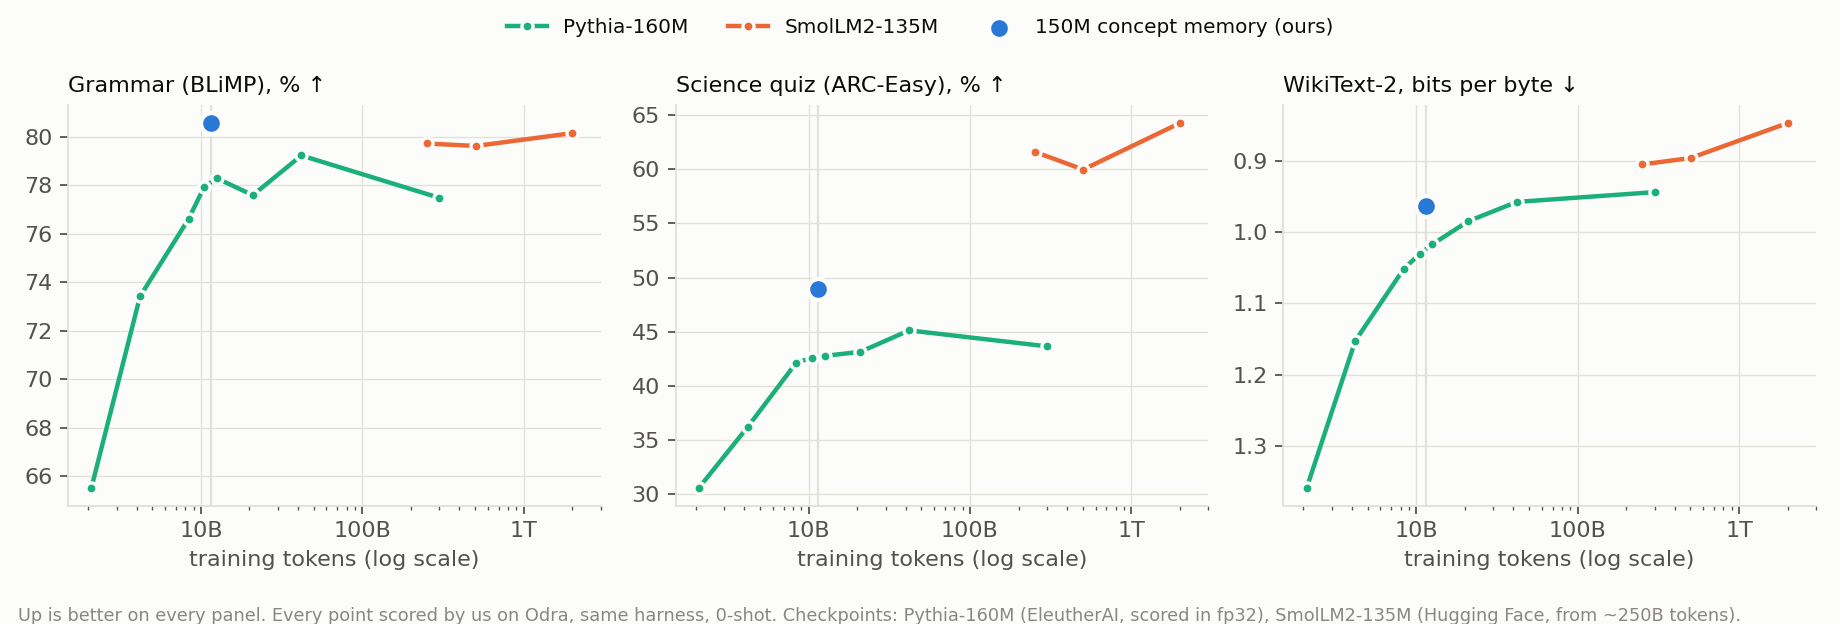
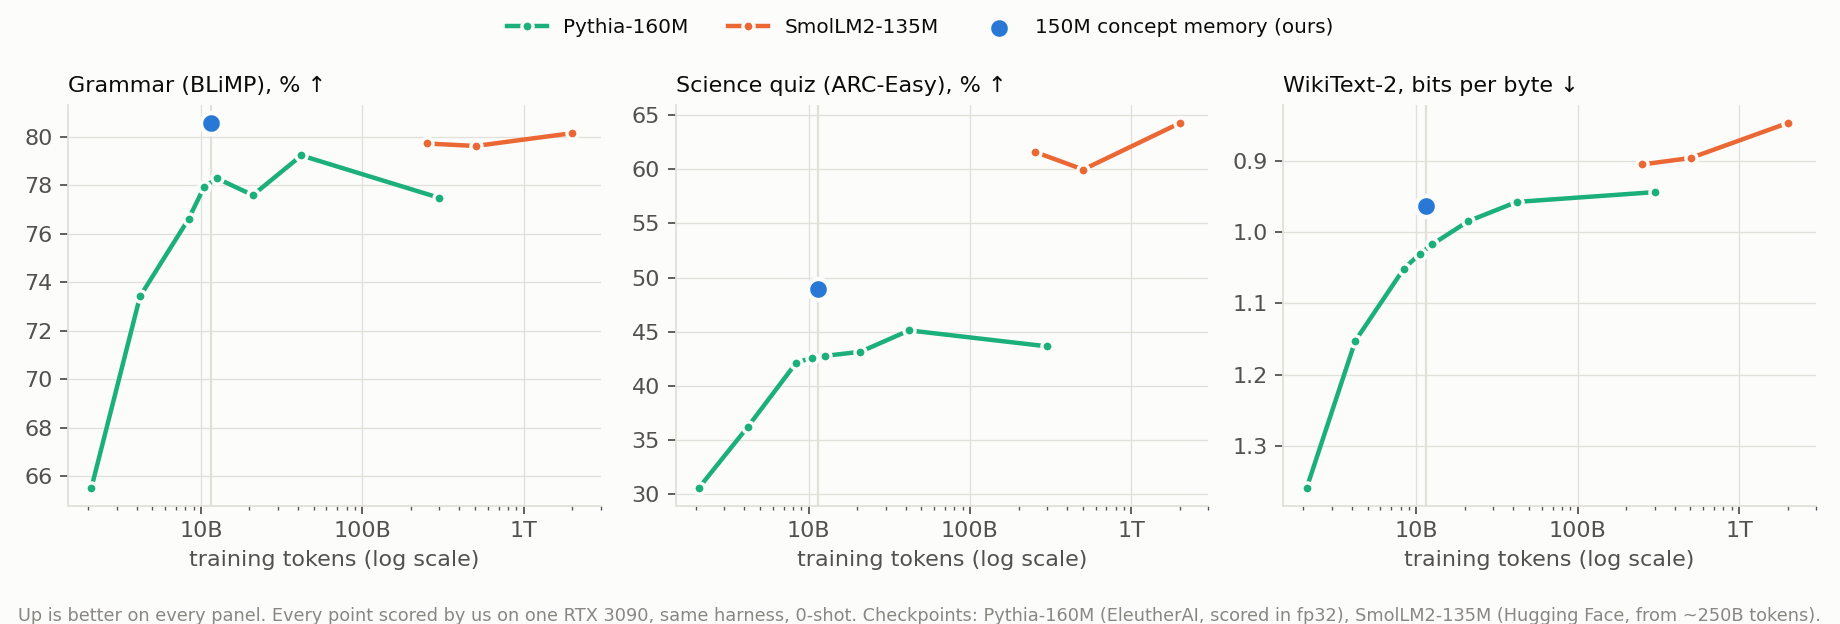
HF card published to Meridian21Lab; no server names in public files; ≈ instead of ~
- Published Meridian21Lab/concept-memory-140m-11.5bt (public, Apache-2.0) on 2026-11-18:
  private upload 14:14–14:15 UTC (64 files, weights checksum matched the training checkpoint),
  loaded back from the Hub on CPU (141.5M parameters, 1.99 nats/token on a plain sentence),
  public at 14:16 UTC; Hub commits e1ba4e91 (weights + card) and 7f939bf7 (tilde fix).
  config.json on the Hub: tokenizer_name = HuggingFaceTB/SmolLM2-135M, use_liger = false.
- Card, evaluation page, figure caption, samples file and the uploaded scripts' usage text no
  longer name our servers or internal paths; hardware is named generically (RTX 3090,
  4 × NVIDIA L40S on AWS spot). The evaluation page no longer claims the new RULER runner and
  sampling script are on the dev branch: it points to their copies in the Hub repo.
- Hub markdown turned paired "~" into strikethrough: written as ≈ now.
- model-release skill: rule and checklist items for generic hardware names, the tilde trap,
  and scrolling the rendered page after upload.

Changed region(s): [[0.2788, 0.9744, 0.9913, 1.0]]

diff --git a/evaluation/long_context_compare.py b/evaluation/long_context_compare.py
@@ -14,13 +14,11 @@ compares models with different tokenizers and context limits on exactly the same
            512 / 1,024 / 4,096 tokens for limits of 2k / 8k / longer), so every model gets as much of the document as
            it can take; larger budgets then give the same score and are copied, marked "windowed".
 
-Usage (Odra; script read from stdin, so nothing is written to the checkout; spans go to the cache):
-  ssh odra 'cd ~/dev/MrCogito-eng && .venv/bin/python - prepare --tokenizer Cache/e38_board/e37a_m120t_final \
-      --data ../MrCogito-lsa/Cache/e33n_data/longdocs_lite_gpt2 --out Cache/e38_board/longctx/spans_64k.json.gz' \
-      < evaluation/long_context_compare.py
-  ssh odra 'cd ~/dev/MrCogito-eng && CUDA_VISIBLE_DEVICES=0 .venv/bin/python - score \
-      --spans Cache/e38_board/longctx/spans_64k.json.gz --model HuggingFaceTB/SmolLM2-135M' \
-      < evaluation/long_context_compare.py > smollm2.json
+Usage (from a MrCogito checkout, one GPU per process):
+  uv run python evaluation/long_context_compare.py prepare --tokenizer <our checkpoint folder> \
+      --data <LongDocs-lite shards> --out spans_64k.json.gz
+  CUDA_VISIBLE_DEVICES=0 uv run python evaluation/long_context_compare.py score \
+      --spans spans_64k.json.gz --model HuggingFaceTB/SmolLM2-135M > smollm2.json
 """
 from __future__ import annotations
 

diff --git a/evaluation/long_context_use.py b/evaluation/long_context_use.py
@@ -21,10 +21,9 @@ document-masked). Positions: the reading layer has no position code (global_nope
 window is 128 tokens, so moving the target from position 61k to position 4k does not change what the model sees
 apart from the context itself.
 
-Usage (one card per process; the script is read from stdin, nothing is written to the checkout):
-  ssh odra 'cd ~/dev/MrCogito-eng && uv run python - --checkpoint Cache/e38_board/e37a_m120t_final \
-      --data ../MrCogito-lsa/Cache/e33n_data/longdocs_lite_gpt2 --sources gutenberg,arxiv --span 65536' \
-      < evaluation/long_context_use.py > out.json
+Usage (from a MrCogito checkout, one GPU per process):
+  uv run python evaluation/long_context_use.py --checkpoint <our checkpoint folder> \
+      --data <LongDocs-lite shards> --sources gutenberg,arxiv --span 65536 > out.json
 """
 from __future__ import annotations
 

diff --git a/docs/release/hf_card_concept_memory_150m/figures/make_figures.py b/docs/release/hf_card_concept_memory_150m/figures/make_figures.py
@@ -226,7 +226,7 @@ def data_efficiency() -> None:
             ax.invert_yaxis()  # up is better on every panel
     h, l = axs[1].get_legend_handles_labels()
     fig.legend(h, l, loc="upper center", ncol=3, frameon=False, fontsize=9, bbox_to_anchor=(0.5, 1.0))
-    fig.text(0.01, 0.005, "Up is better on every panel. Every point scored by us on Odra, same harness, 0-shot. "
+    fig.text(0.01, 0.005, "Up is better on every panel. Every point scored by us on one RTX 3090, same harness, 0-shot. "
              "Checkpoints: Pythia-160M (EleutherAI, scored in fp32), SmolLM2-135M (Hugging Face, from ~250B tokens).", fontsize=8,
              color=MUTED)
     fig.tight_layout(rect=(0, 0.04, 1, 0.92))

diff --git a/evaluation/sample_text.py b/evaluation/sample_text.py
@@ -12,7 +12,7 @@ Works for our perceiver_ar checkpoints (loaded with `load_perceiver_ar_for_eval`
 short, and flex attention would recompile for every new length) and for any 🤗 causal LM (`--hf`). Every step re-runs
 the whole row (no cache): fine for prompts and replies of a few hundred tokens.
 
-    uv run python evaluation/sample_text.py --model Cache/e38_board/e37a_m120t_final --out samples.json
+    uv run python evaluation/sample_text.py --model <our checkpoint folder> --out samples.json
     uv run python evaluation/sample_text.py --model HuggingFaceTB/SmolLM2-135M --hf --out smollm2_samples.json
 """
 from __future__ import annotations

diff --git a/evaluation/run_lsa_suite.py b/evaluation/run_lsa_suite.py
@@ -85,7 +85,7 @@ def _blimp(evaluate, cap, out, save) -> None:
 
 
 # lm-eval's RULER HotpotQA task downloads the dev set (distractor) from this host, which no longer resolves
-# (2026-11-05, from Odra and Polonez). The same 7,405 questions are on the Hub as parquet.
+# (2026-11-05, from two networks). The same 7,405 questions are on the Hub as parquet.
 HOTPOT_URL = "http://curtis.ml.cmu.edu/datasets/hotpot/hotpot_dev_distractor_v1.json"
 
 

diff --git a/docs/release/hf_card_concept_memory_150m/README.md b/docs/release/hf_card_concept_memory_150m/README.md
@@ -71,12 +71,12 @@ seed, not instruction-tuned.
   tokens (0.051 bits per byte from 1k to 61k): as much as Gemma 3 270M gains up to its 32k limit, and then further.
   Replace the far past with another document and the gain disappears, on 55 of 55 documents.
 - **Strong for its training budget.** Grammar (BLiMP) 80.56 %: higher than SmolLM2-135M after 252B tokens (79.72 %)
-  and than LFM2.5-350M-Base (80.17 %; 2.5× our size, 28T tokens), level with SmolLM2's final ~2T-token model
+  and than LFM2.5-350M-Base (80.17 %; 2.5× our size, 28T tokens), level with SmolLM2's final ≈2T-token model
   (80.15 %). Against Pythia-160M at our budget (10.5–12.6B tokens) it is ahead on every test; Pythia does not reach
   our grammar or science-quiz score at any checkpoint up to 300B tokens.
 - **Finds a planted fact far back.** RULER's needle in real essays: 1.00 up to 16k tokens and 0.98 at
   32k (after training on similar lookups).
-- **Cheap and open.** ~40 hours on one 4-GPU node (~$320). A whole 64k document is scored in one pass on a single
+- **Cheap and open.** ≈40 hours on one 4-GPU node (≈ $320). A whole 64k document is scored in one pass on a single
   24 GB RTX 3090. Every training source is a public Hugging Face dataset, every training stage is on public W&B,
   and every number on this card comes with its raw result file in this repository.
 
@@ -100,7 +100,7 @@ higher is better; best in each row in **bold**.
 | Hard science quiz (ARC-Challenge) | 25 | 21.2 | 27.1 | 19.5 (18.8) | **38.2** |
 | Sensible continuation (HellaSwag) | 25 | 29.9 | 32.6 | 28.4 | **37.1** |
 | Science with a passage (SciQ) | 25 | 77.0 | 80.4 | 75.4 (74.1) | **90.1** |
-| Last word of a passage (LAMBADA) | ~0 | 33.2 | 35.0 | 35.4 (32.8) | **35.8** |
+| Last word of a passage (LAMBADA) | ≈0 | 33.2 | 35.0 | 35.4 (32.8) | **35.8** |
 | Physical common sense (PIQA) | 50 | 62.8 | 65.9 | 62.3 (62.7) | **66.6** |
 | Pronoun resolution (WinoGrande) | 50 | 50.4 | 50.9 | 51.2 (53.1) | **55.6** |
 | **Mean of the 7 tasks above** | 28.6 | 46.2 | 50.5 | 45.1 | **56.2** |
@@ -109,10 +109,10 @@ higher is better; best in each row in **bold**.
 | **Gain from far context**, 1k → most, bits per byte ↑ | 0 | **0.051** | 0 (reads 2k) | 0 (reads 2k) | −0.035 (worse with more) |
 | Tiny-ML Leaderboard place (of 101) ⁴ | | 24th | 9th | 44th (over the 150M cap) | 12th (over the 150M cap) |
 
-¹ SmolLM2-135M's **earliest public training checkpoint** (step 240,000, ~252B tokens, 22× ours), the closest to
-our budget a reader can check; its final ~2T-token model is in the leaderboard table below. These early checkpoints
+¹ SmolLM2-135M's **earliest public training checkpoint** (step 240,000, ≈252B tokens, 22× ours), the closest to
+our budget a reader can check; its final ≈2T-token model is in the leaderboard table below. These early checkpoints
 read 2,048 tokens; SmolLM2's 8k context came in its last training phase.
-² Pythia-160M's final checkpoint, scored by us in fp32 (it loses ~6 ARC-Easy points in bf16). In brackets:
+² Pythia-160M's final checkpoint, scored by us in fp32 (it loses ≈6 ARC-Easy points in bf16). In brackets:
 EleutherAI's own published zero-shot results (`evals/pythia-v1/pythia-160m` in their GitHub repository, quoted).
 ³ LFM2.5-350M-Base (Liquid AI, March 2026), 2.5× our size; training tokens as its card reports (quoted). Its card
 states a 32k context; on these documents it predicts best with 4k and worse with more (checked in fp32 and bf16,
@@ -132,20 +132,20 @@ difference of 0.01 is about 1.2 %.
 
 <p align="center"><img src="figures/long_docs.png" width="860" alt="Bits per byte on the last pages of 55 held-out 64k-token documents against the context each model is given. Ours improves steadily up to 61k tokens; same-size models stop at 2k and 8k; Gemma 3 270M is level with ours up to its 32k limit; Granite 4.0 350M is ahead; LFM2.5-350M-Base gets worse past 4k."></p>
 
-Every model reads the same characters: the last ~16 KB of each 64k-token span is the target, and the context
+Every model reads the same characters: the last ≈16 KB of each 64k-token span is the target, and the context
 before it is cut to the budget on the x-axis (sliding windows past a model's maximum length). Held-out documents from
 five public sources (Gutenberg books, arXiv papers, open-access academic books, US government publications, UK
 parliamentary debates); ours trained on other documents of these sources, the others may have seen these very
-documents. Odra (RTX 3090), 2026-11-18.
+documents. One RTX 3090, 2026-11-18.
 
 | Model | Size | Training tokens | Reads at most | Bits per byte ↓ | Gain, 1k → most ↑ | Another document's far past ↓ |
 |---|---:|---:|---:|---:|---:|---:|
 | **150M concept memory** | 141.5M | 11.5B | 64k | **0.795** | **0.051** [0.037, 0.067] | 0.832 |
 | SmolLM2-135M, 252B checkpoint | 134.5M | 252B | 2k | 0.933 | — | 0.932 |
-| SmolLM2-135M, final | 134.5M | ~2T | 8k | 0.832 | 0.018 [0.014, 0.024] | 0.836 |
+| SmolLM2-135M, final | 134.5M | ≈2T | 8k | 0.832 | 0.018 [0.014, 0.024] | 0.836 |
 | Pythia-160M | 162.3M | 300B | 2k | 0.942 | — | 0.941 |
 | Gemma 3 270M | 268.1M | 6T | 32k | 0.805 | 0.038 [0.029, 0.049] | 0.827 |
-| Granite 4.0 350M base | 352.4M | ~15T | 32k | 0.776 | 0.041 [0.033, 0.051] | 0.798 |
+| Granite 4.0 350M base | 352.4M | ≈15T | 32k | 0.776 | 0.041 [0.033, 0.051] | 0.798 |
 | LFM2.5-350M-Base | 354.5M | 28T | 32k | 0.879 at 4k; 0.928 at 28k | −0.035 [−0.051, −0.020] | 0.933 |
 
 Training tokens as each card reports them (quoted); 95 % bootstrap intervals over documents. "Another document's
@@ -161,7 +161,7 @@ far past": the own last 4k tokens kept, everything older taken from a different 
 Our own tests of the memory (context cut in our tokens, the memory or only its summaries switched off, 16k and 128k
 documents) are in [EVALUATION.md](EVALUATION.md#our-own-long-context-tests). In short: switching the far read off
 costs 0.29 nats per token at 64k; past 64k, the training length, extra context no longer helps, so feed the last
-~64k tokens.
+≈64k tokens.
 
 ## Tiny-ML Leaderboard
 
@@ -175,13 +175,13 @@ board's own runs (quoted, snapshot 2026-11-14); rows in *italics* are our runs, 
 | 2 | Tiny Chick 10M V2.1 | 9.6M | 16.3B | 76.79 | 53.79 | 2.342 | 75.5 | 85.2 |
 | 3 | Tiny Chick 10M V2 | 9.6M | 16.3B | 76.99 | 50.21 | 2.364 | 74.3 | 83.8 |
 | 4 | Slayer139 1.02 | 139.3M | 24.0B | 79.22 | 65.91 | 1.862 | 81.7 | 83.4 |
-| *(4)* | *SmolLM2-135M, final* | *134.5M* | *~2T* | *80.15* | *64.27* | *1.799* | *81.5* | *83.2* |
+| *(4)* | *SmolLM2-135M, final* | *134.5M* | *≈2T* | *80.15* | *64.27* | *1.799* | *81.5* | *83.2* |
 | 5 | Boris-2-Think | 143.7M | 200B | 82.09 | 63.93 | 1.967 | 81.7 | 83.2 |
 | 6 | Slayer149-ARC | 149.3M | 31B | 78.38 | 66.58 | 1.907 | 81.5 | 82.9 |
 | 7 | Tiny Chick 10M | 9.6M | 8.3B | 75.12 | 48.53 | 2.287 | 73.3 | 82.7 |
 | 8 | Slayer139 1.01 | 139.3M | 23.7B | 79.13 | 63.09 | 1.878 | 80.7 | 82.3 |
 | *(9)* | *SmolLM2-135M, 252B checkpoint* | *134.5M* | *252B* | *79.72* | *61.62* | *1.873* | *80.4* | *82.1* |
-| 9 | Glint-2 | 1.1M | ~300B | 74.54 | 36.20 | 3.127 | 67.2 | 81.7 |
+| 9 | Glint-2 | 1.1M | ≈300B | 74.54 | 36.20 | 3.127 | 67.2 | 81.7 |
 | 10 | Boris-2 | 143.7M | 200B | 81.13 | 59.76 | 1.895 | 80.2 | 81.7 |
 | … | | | | | | | | |
 | 23 | GPT-S-5M | 5.2M | 25B | 72.27 | 35.69 | 2.570 | 67.4 | 77.7 |
@@ -207,8 +207,8 @@ with the same harness.
   points of grammar, +6.2 to +6.4 on the science quiz, +3 to +4 on the 7-task mean, and 0.07–0.09 lower WikiText
   byte perplexity.
 - **Tokens to match:** Pythia-160M does not reach our grammar or science-quiz score at any checkpoint up to 300B
-  tokens (26× ours); it reaches our WikiText score after ~36B tokens (3.1×). SmolLM2-135M stays below our grammar
-  score at 252B and 503B tokens and passes it at ~2T; it is ahead on the knowledge tests from its first checkpoint.
+  tokens (26× ours); it reaches our WikiText score after ≈36B tokens (3.1×). SmolLM2-135M stays below our grammar
+  score at 252B and 503B tokens and passes it at ≈2T; it is ahead on the knowledge tests from its first checkpoint.
 - **What it does not separate:** the model as trained (architecture and data together). Part of the gap to Pythia is
   newer, cleaner data; a standard transformer of the same size on our exact data and budget will measure the
   architecture's share (queued).
@@ -216,7 +216,7 @@ with the same harness.
 ## RULER
 
 The standard long-context suite: 13 tasks, 100 prompts per task and length, greedy decoding, each task's own answer
-length; score = share of the expected answers found in the reply (higher is better). Odra, 2026-11-18. The needle
+length; score = share of the expected answers found in the reply (higher is better). One RTX 3090 per run, 2026-11-18. The needle
 tasks are not zero-shot for this model: two training stages included planted-fact lookups of a similar shape.
 
 | RULER | 4k | 8k | 16k | 32k |
@@ -249,7 +249,7 @@ in bold, unedited, cut at a sentence end (…). More seeds and beam-search outpu
 >         return 0
 > ```
 
-Fluent, on-topic English and code-shaped output; the facts are often wrong (Paris has ~2.1 million people; the 1905
+Fluent, on-topic English and code-shaped output; the facts are often wrong (Paris has ≈2.1 million people; the 1905
 paper was special relativity), as expected from a 140M base model at 11.5B tokens.
 
 ## How the concept memory works
@@ -281,8 +281,8 @@ concepts is switched off in this release, which tests the memory only.
 | **Tokenizer** | SmolLM2's (`HuggingFaceTB/SmolLM2-135M`), 49,152 tokens; every document starts with `<|endoftext|>` |
 | **Budget** | 11.5B tokens in three length stages: 8.0B at 4k-token rows → 3.0B at 16k → 0.5B at 64k |
 | **Optimizer** | Muon (peak 0.01) for the weight matrices, AdamW for the rest; bf16; seed 42 |
-| **Machine** | one AWS g6e.12xlarge spot node (4 × NVIDIA L40S, 48 GB), us-east-1 |
-| **Time and cost** | ~40 hours (~160 GPU-hours) including ~1 h of tests; ~$320 at ~$8/h spot, plus $15 for an optimizer test; energy not measured |
+| **Machine** | one AWS spot node with 4 × NVIDIA L40S (48 GB) |
+| **Time and cost** | ≈40 hours (≈160 GPU-hours) including ≈1 h of tests; ≈ $320 at ≈ $8/h spot, plus $15 for an optimizer test; energy not measured |
 | **Finished** | 2026-11-16 23:16 UTC |
 
 **Data (`m21mix_v2`), all public Hugging Face datasets.** Shares are of each stage's tokens.
@@ -304,10 +304,10 @@ HotpotQA, SQuAD, the held-out long documents) are not in the training data. Stag
 - **Base model.** No instruction or preference tuning; about 1 % of training text was chat transcripts rendered as
   plain text (the tokenizer folder carries a ChatML template for that reason). English, plus code.
 - **Knowledge tests** (ARC, SciQ, HellaSwag, LAMBADA) are below SmolLM2-135M, which trained on 22× (at 252B) to
-  ~170× (final) more text, and LFM2.5-350M-Base (2.5× our size, ~2,400× our text); at this size these tests track
+  ≈170× (final) more text, and LFM2.5-350M-Base (2.5× our size, ≈2,400× our text); at this size these tests track
   training tokens closely.
 - **Context:** trained and tested to 64k tokens. Past 64k, extra context no longer improves predictions (at 128k,
-  the whole document is 0.06 nats per token worse than its last 61k on 15 of 15 documents); feed the last ~64k.
+  the whole document is 0.06 nats per token worse than its last 61k on 15 of 15 documents); feed the last ≈64k.
 - **Several facts at once:** tasks that need many values or keys at once score lower than single lookups and fall
   with length (RULER table).
 - **Controls not run yet:** one seed; no full-attention model of the same size on the same data, so the share of

diff --git a/docs/release/hf_card_concept_memory_150m/EVALUATION.md b/docs/release/hf_card_concept_memory_150m/EVALUATION.md
@@ -19,8 +19,8 @@ figures from those files.
 
 ## Harness and settings
 
-- **Machine:** Odra, one NVIDIA RTX 3090 (24 GB) per job; runs between 2026-11-17 19:58 UTC and 2026-11-18
-  13:51 UTC. The AWS tests quoted at the end of section 6 ran on the training node on 2026-11-16.
+- **Machine:** one NVIDIA RTX 3090 (24 GB) per job; runs between 2026-11-17 19:58 UTC and 2026-11-18
+  13:51 UTC. The AWS tests quoted at the end of section 6 ran on the training machine (4 × NVIDIA L40S) on 2026-11-16.
 - **Benchmarks:** EleutherAI lm-evaluation-harness 0.4.11, 0-shot, all test items, max length 2,048, `acc` for
   every task. Our model through our adapter (`evaluation/lm_eval_perceiver_ar.py`, `--model perceiver_ar`), the
   others through lm-eval's stock `hf` model (`evaluation/run_lm_eval_suite.py`).
@@ -44,13 +44,13 @@ Accuracy in %, higher is better, ± standard error from the harness. In brackets
 zero-shot results for Pythia-160M (step 143000, `evals/pythia-v1/pythia-160m` in their GitHub repository, quoted;
 the remaining gaps of 1–2.5 points fit the change of harness version).
 
-| Benchmark | Chance | **Ours** · 11.5B | SmolLM2-135M · 252B | SmolLM2-135M · ~2T (final) | Pythia-160M · 300B | LFM2.5-350M-Base · 28T |
+| Benchmark | Chance | **Ours** · 11.5B | SmolLM2-135M · 252B | SmolLM2-135M · ≈2T (final) | Pythia-160M · 300B | LFM2.5-350M-Base · 28T |
 |---|---:|---:|---:|---:|---:|---:|
 | BLiMP, 67 sets | 50 | **80.56** ± 0.14 | 79.72 ± 0.14 | 80.15 ± 0.14 | 77.48 | 80.17 |
 | ARC-Easy | 25 | 48.95 ± 1.03 | 61.62 ± 1.0 | 64.27 ± 0.98 | 43.64 ± 1.0 (43.52) | **70.03** ± 0.9 |
 | ARC-Challenge | 25 | 21.2 ± 1.2 | 27.1 ± 1.3 | 28.0 ± 1.3 | 19.5 ± 1.2 (18.8) | **38.2** ± 1.4 |
 | HellaSwag | 25 | 29.9 ± 0.5 | 32.6 ± 0.5 | 35.5 ± 0.5 | 28.4 ± 0.4 | **37.1** ± 0.5 |
-| LAMBADA (OpenAI) | ~0 | 33.2 ± 0.7 | 35.0 ± 0.7 | **43.0** ± 0.7 | 35.4 ± 0.7 (32.8) | 35.8 ± 0.7 |
+| LAMBADA (OpenAI) | ≈0 | 33.2 ± 0.7 | 35.0 ± 0.7 | **43.0** ± 0.7 | 35.4 ± 0.7 (32.8) | 35.8 ± 0.7 |
 | PIQA | 50 | 62.8 ± 1.1 | 65.9 ± 1.1 | **68.6** ± 1.1 | 62.3 ± 1.1 (62.7) | 66.6 ± 1.1 |
 | SciQ | 25 | 77.0 ± 1.3 | 80.4 ± 1.3 | 84.1 ± 1.2 | 75.4 ± 1.4 (74.1) | **90.1** ± 0.9 |
 | WinoGrande | 50 | 50.4 ± 1.4 | 50.9 ± 1.4 | 53.6 ± 1.4 | 51.2 ± 1.4 (53.1) | **55.6** ± 1.4 |
@@ -77,13 +77,13 @@ reproduces the formula from the board's page (five entries match to two decimals
 | 2 | Tiny Chick 10M V2.1 | kurcontko.dev | 9.6M | 16.3B | 76.79 | 53.79 | 2.342 | 75.5 | 85.2 |
 | 3 | Tiny Chick 10M V2 | kurcontko.dev | 9.6M | 16.3B | 76.99 | 50.21 | 2.364 | 74.3 | 83.8 |
 | 4 | Slayer139 1.02 | Fabryka AI | 139.3M | 24.0B | 79.22 | 65.91 | 1.862 | 81.7 | 83.4 |
-| (4) | *SmolLM2-135M, final (our run)* |  | 134.5M | ~2T | 80.15 | 64.27 | 1.799 | 81.5 | 83.2 |
+| (4) | *SmolLM2-135M, final (our run)* |  | 134.5M | ≈2T | 80.15 | 64.27 | 1.799 | 81.5 | 83.2 |
 | 5 | Boris-2-Think | opencerebral | 143.7M | 200B | 82.09 | 63.93 | 1.967 | 81.7 | 83.2 |
 | 6 | Slayer149-ARC | Fabryka AI | 149.3M | 31B | 78.38 | 66.58 | 1.907 | 81.5 | 82.9 |
 | 7 | Tiny Chick 10M | kurcontko.dev | 9.6M | 8.3B | 75.12 | 48.53 | 2.287 | 73.3 | 82.7 |
 | 8 | Slayer139 1.01 | Fabryka AI | 139.3M | 23.7B | 79.13 | 63.09 | 1.878 | 80.7 | 82.3 |
 | (9) | *SmolLM2-135M, 252B checkpoint (our run)* |  | 134.5M | 252B | 79.72 | 61.62 | 1.873 | 80.4 | 82.1 |
-| 9 | Glint-2 | glintresearch | 1.1M | ~300B | 74.54 | 36.20 | 3.127 | 67.2 | 81.7 |
+| 9 | Glint-2 | glintresearch | 1.1M | ≈300B | 74.54 | 36.20 | 3.127 | 67.2 | 81.7 |
 | 10 | Boris-2 | opencerebral | 143.7M | 200B | 81.13 | 59.76 | 1.895 | 80.2 | 81.7 |
 | (11) | *SmolLM2-135M, 503B checkpoint (our run)* |  | 134.5M | 503B | 79.62 | 59.97 | 1.861 | 79.9 | 81.6 |
 | 11 | JugnuLM-110M-R2+ | altslate | 110.0M | 25B | 82.52 | 55.13 | 1.873 | 79.2 | 81.5 |
@@ -96,15 +96,15 @@ reproduces the formula from the board's page (five entries match to two decimals
 | 18 | Supra-50M-Instruct | supralabs | 51.8M | 20B | 76.30 | 52.20 | 2.560 | 74.3 | 78.7 |
 | 19 | GoLLeM-v5 128M | Fabryka AI | 122.8M | 24.9B | 79.09 | 53.24 | 2.254 | 76.3 | 78.2 |
 | 20 | Glint-1.3 (merged) | glintresearch | 1.0M | 100B | 68.70 | 32.50 | 3.080 | 64.1 | 78.2 |
-| 21 | Ivme-Conversate-v3-Base | ivmelabs | 24.8M | ~15B | 78.49 | 39.02 | 2.136 | 71.7 | 78.1 |
+| 21 | Ivme-Conversate-v3-Base | ivmelabs | 24.8M | ≈15B | 78.49 | 39.02 | 2.136 | 71.7 | 78.1 |
 | 22 | Supra-50M-Base | supralabs | 51.8M | 20B | 76.30 | 46.00 | 2.040 | 73.5 | 78.0 |
 | 23 | GPT-S-5M | axiomiclabs | 5.2M | 25B | 72.27 | 35.69 | 2.570 | 67.4 | 77.7 |
 | 24 | **150M concept memory (ours)** | Meridian21 Lab | 141.5M | 11.5B | 80.56 | 48.95 | 1.950 | 76.2 | 77.7 |
 | 25 | Glint-2.3 | glintresearch | 1.7M | 10B | 67.30 | 36.00 | 3.051 | 64.8 | 77.6 |
 | 26 | Zedev-134M-Fudas | meridianmrm | 134.0M | 20.7b | 81.69 | 46.38 | 1.880 | 76.0 | 77.6 |
-| 27 | Hydrion-v1-Base | opengcm | 114.1M | ~2.5B | 80.08 | 47.26 | 2.040 | 75.2 | 77.4 |
+| 27 | Hydrion-v1-Base | opengcm | 114.1M | ≈2.5B | 80.08 | 47.26 | 2.040 | 75.2 | 77.4 |
 | 28 | GoLLeM-v5 64M | Fabryka AI | 62.9M | 24.9B | 76.16 | 48.19 | 2.347 | 73.4 | 77.2 |
-| 29 | Ivme-Conversate-v2-Base | ivmelabs | 23.9M | ~12.85B | 75.09 | 39.98 | 2.225 | 70.6 | 77.1 |
+| 29 | Ivme-Conversate-v2-Base | ivmelabs | 23.9M | ≈12.85B | 75.09 | 39.98 | 2.225 | 70.6 | 77.1 |
 | 30 | GoLLeM-v5 64M (v1 recipe) | Fabryka AI | 62.9M | 13.1B | 75.83 | 47.94 | 2.372 | 73.1 | 77.0 |
 | 31 | Pollock 1.5 Mini LM 128M | Fabryka AI | 127.4M | 21.50B | 78.50 | 47.73 | 1.944 | 75.1 | 76.9 |
 | 32 | Glint-2.3-Mini | glintresearch | 1.1M | 10B | 62.27 | 36.20 | 3.122 | 63.1 | 76.8 |
@@ -121,7 +121,7 @@ reproduces the formula from the board's page (five entries match to two decimals
 | 43 | GoLLeM-v5 16M | Fabryka AI | 17.4M | 16B | 70.08 | 40.91 | 2.675 | 68.2 | 75.3 |
 | 44 | Cagliari-114M | meridianmrm | 114.0M | 5.24B | 80.22 | 38.30 | 1.960 | 72.5 | 74.6 |
 | (44) | *Pythia-160M, final (our run, fp32; over the 150M cap)* |  | 162.3M | 300B | 77.48 | 43.64 | 1.924 | 73.5 | 74.5 |
-| 45 | KeyLM-75M-Instruct | minimalabs | 75.0M | ~18B | 76.02 | 39.10 | 2.170 | 70.8 | 74.0 |
+| 45 | KeyLM-75M-Instruct | minimalabs | 75.0M | ≈18B | 76.02 | 39.10 | 2.170 | 70.8 | 74.0 |
 
 The first 45 places of 101 shown; the full snapshot is in the file above.
 
@@ -131,7 +131,7 @@ at 51.4 % the model would place 19th, at 60 % 12th.
 
 ## Data efficiency
 
-| Test | **Ours** at 11.5B | Pythia-160M at 10.5B | at 12.6B | at 300B (final) | SmolLM2-135M at 252B | at 503B | at ~2T (final) |
+| Test | **Ours** at 11.5B | Pythia-160M at 10.5B | at 12.6B | at 300B (final) | SmolLM2-135M at 252B | at 503B | at ≈2T (final) |
 |---|---:|---:|---:|---:|---:|---:|---:|
 | Grammar (BLiMP) % ↑ | **80.56** | 77.94 | 78.28 | 77.48 | 79.72 | 79.62 | 80.15 |
 | Science quiz (ARC-Easy) % ↑ | 48.95 | 42.59 | 42.80 | 43.64 | 61.62 | — | **64.27** |
@@ -155,10 +155,10 @@ branches `step-240000` and `step-480000` (1,048,576 tokens per step) and the fin
 
 ## Long documents across models
 
-`evaluation/long_context_compare.py` (a copy is in `long_context/`), Odra, 2026-11-18. **Documents:** held-out
+`evaluation/long_context_compare.py` (a copy is in `long_context/`), one RTX 3090, 2026-11-18. **Documents:** held-out
 LongDocs-lite validation documents from five Common Pile sources (Gutenberg books, arXiv papers, DOAB open-access
 books, US GPO publications, UK Hansard debates), up to 16 per source at 64k tokens, 55 in all. **Target:** the last
-~16 KB of each span (its last 4,096 tokens in our tokenizer), 0.94 MB in all; the context before it is cut to each
+≈16 KB of each span (its last 4,096 tokens in our tokenizer), 0.94 MB in all; the context before it is cut to each
 budget, counted in our tokens, so every model reads the same characters. **Unit:** bits per byte of the target
 (nats ÷ ln 2 ÷ UTF-8 bytes). A model that cannot take a budget is scored with sliding windows of its own maximum
 length ("limit").
@@ -202,7 +202,7 @@ whole span; + = ours better, 95 % bootstrap interval over documents:
 ## Our own long-context tests
 
 The same 64k documents in our own tokens, with switches no other model has (`long_context/long_context_use.py`,
-Odra, 2026-11-17 19:58–20:35 UTC). Always the same target, the **last 4,096 tokens** of a 16k, 64k or 128k span.
+one RTX 3090, 2026-11-17 19:58–20:35 UTC). Always the same target, the **last 4,096 tokens** of a 16k, 64k or 128k span.
 Loss in nats per token (lower is better; nats per token depend on the tokenizer, so these compare the model only
 with itself); 95 % intervals by bootstrap over documents.
 
@@ -262,7 +262,7 @@ test above is the one to trust.
 ## RULER
 
 13 tasks, 100 prompts per task and length, greedy cached decoding, each task's own answer length (lm-eval's RULER
-configs, up to 128 tokens), every reply saved (`ruler/*_answers.jsonl`). Odra, 2026-11-18 12:40–13:51 UTC (4k and 8k, 16k on one card each; 32k split by task over three cards).
+configs, up to 128 tokens), every reply saved (`ruler/*_answers.jsonl`). RTX 3090 cards, 2026-11-18 12:40–13:51 UTC (4k and 8k, 16k on one card each; 32k split by task over three cards).
 Score = share of the reference answers found in the reply (higher is better). **Not zero-shot:** training stages 2
 and 3 included planted-fact lookups of a similar shape (different wording).
 
@@ -292,7 +292,7 @@ training, capped run, unaffected): mean 0.185 at 4k and 0.136 at 16k; the essay 
 
 ## Text samples
 
-`evaluation/sample_text.py` (a copy is in `samples/`), Odra, 2026-11-18 12:49 UTC; prompts start with
+`evaluation/sample_text.py` (a copy is in `samples/`), one RTX 3090, 2026-11-18 12:49 UTC; prompts start with
 `<|endoftext|>` as in training. Nucleus sampling: temperature 0.7, top-p 0.9, repetition penalty 1.1 over prompt
 and reply, seeds 0, 1 and 2. Beam search: 4 beams, no repeated 3-gram, best by mean log-probability. 60 new tokens.
 All outputs, unedited: `samples/samples_ours.json`. The card shows seed 0 for each prompt.
@@ -317,7 +317,7 @@ All outputs, unedited: `samples/samples_ours.json`. The card shows seed 0 for ea
 | Learning rate | Muon peak 0.01, constant after 1 % warm-up | fresh optimizer, 3 % warm-up, 1 − √ decay to 0.1 × | a tenth of the peak, decaying |
 | Held-out loss (nats per token, lower is better) | 2.732 → 2.134 (4k web rows) | 2.295 → 1.996 (16k long-document rows) | 1.960 → 1.936 (64k rows) |
 | Speed | 105.6k tokens/s | 69.7k tokens/s | 21.6k tokens/s (activations recomputed) |
-| Wall time | 21.2 h | 12.2 h | 6.5 h (+ ~1 h lost to a spot interruption) |
+| Wall time | 21.2 h | 12.2 h | 6.5 h (+ ≈1 h lost to a spot interruption) |
 
 Muon updates the weight matrices; norms, embeddings and other vector parameters use AdamW (betas 0.9 / 0.95, weight
 decay 0.1). Gradient clipping at 1.0, bf16, flex attention. A paid two-arm test (2,000 steps each, $15) chose Muon
@@ -343,5 +343,5 @@ sources keep a held-out set (the LongDocs-lite validation documents), which the 
   recipe `data/mix_recipes/m21_mix_v2.json` and builders `scripts/build_m21_mix.py`, `scripts/build_reasoning_rows.py`;
   training `scripts/run_e33n.py` (size `m120t`, arm `e37a`) and job `infra/aws/jobs/e38_board.sh`; architecture
   `nn/perceiver_ar_lm.py`, `nn/concept_memory.py`. The fixed RULER runner and the sampling script are newer than
-  that commit: `evaluation/run_lsa_suite.py` and `evaluation/sample_text.py` on the `dev` branch.
+  that commit; this repository has them as `ruler/run_lsa_suite.py` and `samples/sample_text.py`.
 - **Intermediate checkpoints** of this model are not published yet.

diff --git a/.cursor/skills/model-release/SKILL.md b/.cursor/skills/model-release/SKILL.md
@@ -70,8 +70,11 @@ and upload steps live in `huggingface-project`; running the evaluation scripts l
     from the same tokens, measured as same-budget checkpoint, tokens-to-match, or against the field; always say that
     data and architecture are not separated without a same-data control. "Long context" = gain from far context on
     held-out real documents of the same text for every model, plus a swapped-past control.
-11. **Keep what backers and replicators need:** training budget in tokens, wall time, machines, cost; the data mix by
-    stage with Hub links to every dataset and their licences; where the raw results are.
+11. **Keep what backers and replicators need:** training budget in tokens, wall time, hardware, cost; the data mix by
+    stage with Hub links to every dataset and their licences; where the raw results are. Name hardware **generically**
+    ("one RTX 3090", "4 × NVIDIA L40S on AWS spot"): no server names (Odra, Polonez), hostnames, home or cache paths,
+    instance types or regions in anything that goes public, including script docstrings, figure captions and the
+    JSON files shipped with the card. *Why:* the author does not publish internal infrastructure (2026-11-18).
 12. **How to use goes at the bottom, and only with code that runs for the reader.** If the weights do not load with
     `AutoModelForCausalLM.from_pretrained(..., trust_remote_code=True)`, say so in two lines, point to the repo, and
     keep the engineering task open (target: every release loads with `from_pretrained` and the release checklist
@@ -114,7 +117,11 @@ and upload steps live in `huggingface-project`; running the evaluation scripts l
       table (harness version, shots, precision per model, machine, date).
 - [ ] Generation tasks: task-default answer lengths, replies saved, answer lengths checked in our tokenizer.
 - [ ] Samples: sampling settings stated, seed-0 reply shown unpicked, no greedy prose.
-- [ ] Training budget, cost, machines, data mix with links and licences present.
+- [ ] Training budget, cost, hardware, data mix with links and licences present.
+- [ ] No server names, hostnames, home/cache paths, instance types or regions in any uploaded file
+      (`grep -riE "odra|polonez|/home/|~/dev"` over the upload folder and the scripts copied into it).
 - [ ] How to use at the bottom; no code that fails for a reader; `from_pretrained` status stated.
 - [ ] BibTeX for the model and the project page; changelog line with the date.
 - [ ] Raw results, scripts and figures in the repo folder that gets uploaded.
+- [ ] No `~` for "about" in the card: Hub markdown turns a pair of tildes into strikethrough; write ≈.
+- [ ] After upload: open the rendered page and scroll it once (figures, tables, strikethrough, links).

diff --git a/.cursor/skills/model-release/references/card_template.md b/.cursor/skills/model-release/references/card_template.md
@@ -159,6 +159,6 @@ STANDARD RULES v3 (checked before every upload; reasons in ../SKILL.md)
 7. Figures by a script in the repo from the result files, light PNG, one idea per chart, numbers also in a table.
 8. Text samples sampled (settings stated, seed 0 unpicked), never greedy prose.
 9. Generation benchmarks with task-default answer lengths and saved replies.
-10. Budget, cost, machines, data mix with links, licences always present.
+10. Budget, cost, hardware (generic GPU names, no server names or paths), data mix with links, licences always present.
 11. How to use at the bottom; no failing code. BibTeX for model + project page.
 -->
